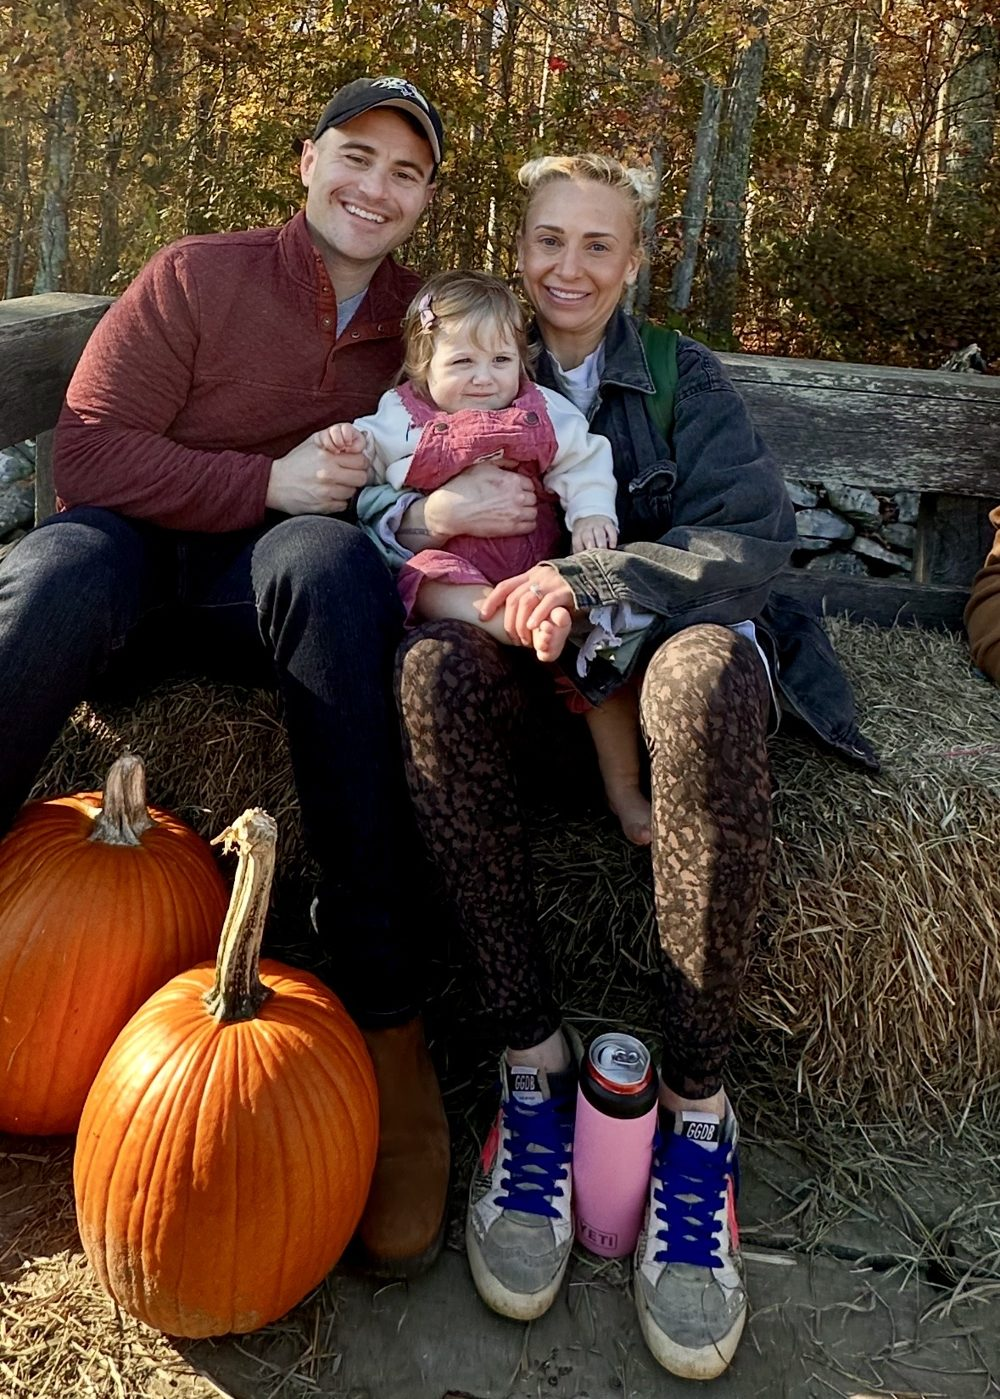
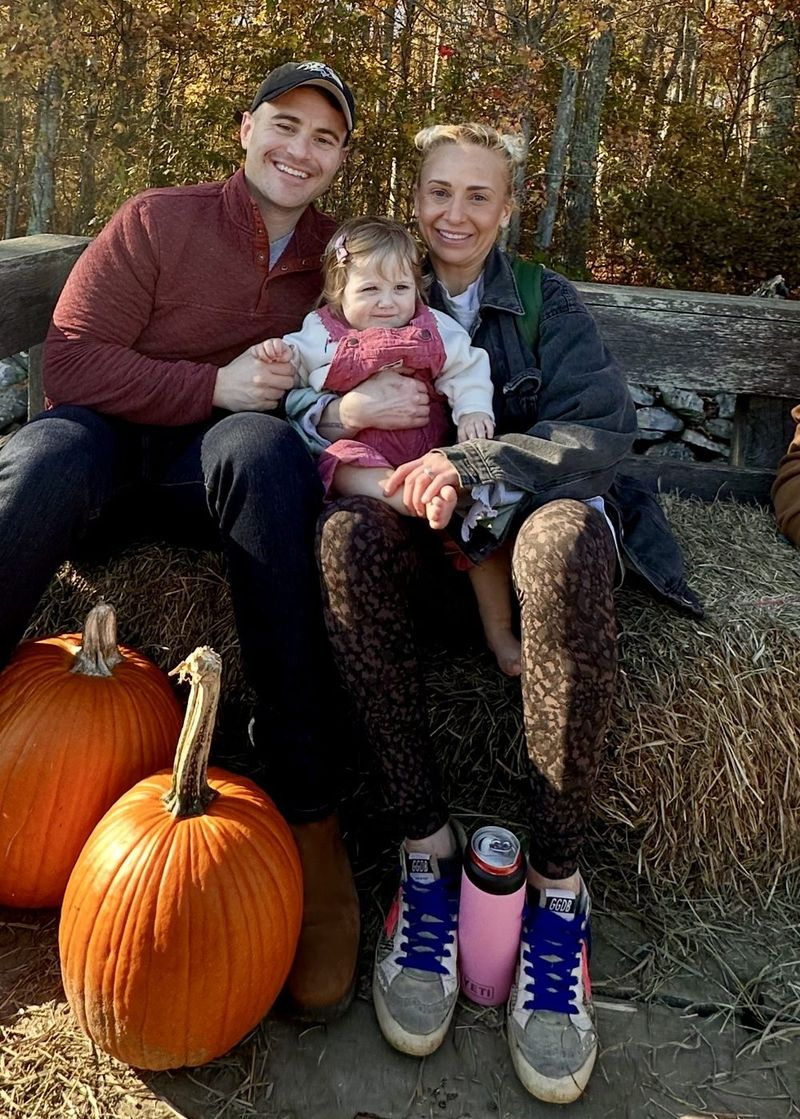
Polish pass: SEO files, a11y fixes, and lighter photos
Add robots.txt, sitemap.xml, and Person JSON-LD. Fix the brand
link's accessible name, size the HubSpot badge, and close the
mobile menu on Escape. Collapse the nav earlier on tablets,
keep footer links from wrapping mid-phrase, drop the unused
Bebas Neue font, and compress gallery photos for faster loads.

Changed region(s): [[0.5312, 0.0, 0.5625, 0.0304]]

diff --git a/index.html b/index.html
@@ -16,9 +16,18 @@
   <meta name="twitter:title" content="Alex Stengel | B2B Technology Sales" />
   <meta name="twitter:description" content="Ten years selling logistics, telecom, and IT. Louisville born, Rhode Island based, and learning to build with AI." />
   <link rel="icon" href="favicon.svg" type="image/svg+xml" />
+  <script type="application/ld+json">
+  {
+    "@context": "https://schema.org",
+    "@type": "Person",
+    "name": "Alex Stengel",
+    "url": "https://alex-stengel.com/",
+    "sameAs": ["https://www.linkedin.com/in/alex-stengel-66610282/"]
+  }
+  </script>
   <link rel="preconnect" href="https://fonts.googleapis.com" />
   <link rel="preconnect" href="https://fonts.gstatic.com" crossorigin />
-  <link href="https://fonts.googleapis.com/css2?family=Bebas+Neue&family=Inter:wght@400;500;600;700;800&display=swap" rel="stylesheet" />
+  <link href="https://fonts.googleapis.com/css2?family=Inter:wght@400;500;600;700;800&display=swap" rel="stylesheet" />
   <link rel="stylesheet" href="styles.css" />
 </head>
 <body>
@@ -26,8 +35,8 @@
 
   <header class="nav" id="top">
     <div class="wrap nav-inner">
-      <a href="#top" class="brand" aria-label="Alex Stengel, back to top"><span class="brand-mark">AS</span><span class="brand-name">Alex Stengel</span></a>
-      <button class="nav-toggle" aria-expanded="false" aria-controls="nav-links" aria-label="Open menu"><span></span><span></span><span></span></button>
+      <a href="#top" class="brand"><span class="brand-mark">AS</span><span class="brand-name">Alex Stengel</span></a>
+      <button type="button" class="nav-toggle" aria-expanded="false" aria-controls="nav-links" aria-label="Open menu"><span></span><span></span><span></span></button>
       <nav id="nav-links" class="nav-links">
         <a href="#about">About</a>
         <a href="#highlights">Highlights</a>
@@ -248,8 +257,8 @@
               <p>Earned through HubSpot Academy. Click the badge to verify it.</p>
               <!-- Begin: HubSpot Academy - HubSpot Sales Hub Software Certified Badge -->
               <div class='academy-badge'>
-                <a href='https://app.hubspot.com/academy/achievements/90ky4zvf/en/1/alex-stengel/hubspot-sales-hub-software-certified' title='HubSpot Sales Hub Software Certified' target='_blank' rel='noopener'>
-                  <img src='https://hubspot-credentials-na1.s3.amazonaws.com/prod/badges/user/3c517a679792426ba1d64bc53a2addfd.png' alt='HubSpot Sales Hub Software Certified badge' />
+                <a href="https://app.hubspot.com/academy/achievements/90ky4zvf/en/1/alex-stengel/hubspot-sales-hub-software-certified" title="HubSpot Sales Hub Software Certified" target="_blank" rel="noopener noreferrer" aria-label="HubSpot Sales Hub Software Certified badge (opens in a new tab)">
+                  <img src="https://hubspot-credentials-na1.s3.amazonaws.com/prod/badges/user/3c517a679792426ba1d64bc53a2addfd.png" alt="HubSpot Sales Hub Software Certified badge" width="666" height="355" loading="lazy" decoding="async" />
                 </a>
               </div>
               <!-- End: HubSpot Academy - HubSpot Sales Hub Software Certified Badge -->
@@ -324,39 +333,39 @@
         </div>
         <div class="gallery">
           <figure class="photo">
-            <img src="photos/pumpkin-patch.jpg" alt="Our little family on a hay bale at the pumpkin patch" width="1000" height="1399" loading="lazy" />
+            <img src="photos/pumpkin-patch.jpg" alt="Our little family on a hay bale at the pumpkin patch" width="800" height="1119" loading="lazy" decoding="async" />
             <figcaption><strong>Pumpkin patch season</strong><span>Fall in New England</span></figcaption>
           </figure>
           <figure class="photo">
-            <img src="photos/sun-hat.jpg" alt="Baby girl in a pink sun hat playing with toys on a blanket" width="1000" height="1333" loading="lazy" />
+            <img src="photos/sun-hat.jpg" alt="Baby girl in a pink sun hat playing with toys on a blanket" width="800" height="1066" loading="lazy" decoding="async" />
             <figcaption><strong>Summer vibes</strong><span>Sun hat, blocks, zero worries</span></figcaption>
           </figure>
           <figure class="photo">
-            <img src="photos/selfie.jpg" alt="Me in a red shirt taking a selfie with my daughter" width="1000" height="1333" loading="lazy" />
+            <img src="photos/selfie.jpg" alt="Me in a red shirt taking a selfie with my daughter" width="800" height="1066" loading="lazy" decoding="async" />
             <figcaption><strong>Daddy-daughter selfie</strong><span>My favorite co-pilot</span></figcaption>
           </figure>
           <figure class="photo">
-            <img src="photos/birthday-pup.jpg" alt="Our dog wearing a Happy Birthday party hat in the snow" width="1000" height="1374" loading="lazy" />
+            <img src="photos/birthday-pup.jpg" alt="Our dog wearing a Happy Birthday party hat in the snow" width="800" height="1099" loading="lazy" decoding="async" />
             <figcaption><strong>Birthday pup</strong><span>Party hat, serious face</span></figcaption>
           </figure>
           <figure class="photo">
-            <img src="photos/cake.jpg" alt="Our family around a pink cake in the kitchen" width="1000" height="1333" loading="lazy" />
+            <img src="photos/cake.jpg" alt="Our family around a pink cake in the kitchen" width="800" height="1066" loading="lazy" decoding="async" />
             <figcaption><strong>Cake time</strong><span>Louisville hat on, of course</span></figcaption>
           </figure>
           <figure class="photo">
-            <img src="photos/big-smiles.jpg" alt="Toddler in a mauve sweatshirt smiling outdoors" width="787" height="1400" loading="lazy" />
+            <img src="photos/big-smiles.jpg" alt="Toddler in a mauve sweatshirt smiling outdoors" width="787" height="1400" loading="lazy" decoding="async" />
             <figcaption><strong>Big smiles</strong><span>Her personality is something else</span></figcaption>
           </figure>
           <figure class="photo">
-            <img src="photos/party.jpg" alt="Little girl in a yellow romper looking at gifts and balloons at her party" width="981" height="1400" loading="lazy" />
+            <img src="photos/party.jpg" alt="Little girl in a yellow romper looking at gifts and balloons at her party" width="800" height="1142" loading="lazy" decoding="async" />
             <figcaption><strong>Party time</strong><span>Checking out the presents</span></figcaption>
           </figure>
           <figure class="photo">
-            <img src="photos/sunbather.jpg" alt="Our dog with eyes closed enjoying the sun in the grass" width="1000" height="1333" loading="lazy" />
+            <img src="photos/sunbather.jpg" alt="Our dog with eyes closed enjoying the sun in the grass" width="800" height="1066" loading="lazy" decoding="async" />
             <figcaption><strong>Sunbathing pro</strong><span>Peak relaxation</span></figcaption>
           </figure>
           <figure class="photo">
-            <img src="photos/mom-and-baby.jpg" alt="My wife smiling while holding our baby girl outside" width="933" height="1400" loading="lazy" />
+            <img src="photos/mom-and-baby.jpg" alt="My wife smiling while holding our baby girl outside" width="800" height="1200" loading="lazy" decoding="async" />
             <figcaption><strong>My girls</strong><span>The best part of every day</span></figcaption>
           </figure>
         </div>
@@ -374,7 +383,7 @@
             <span class="contact-icon" aria-hidden="true"><svg viewBox="0 0 24 24"><path d="M3 5h18v14H3z" fill="none" stroke="currentColor" stroke-width="2"/><path d="M3 6l9 7 9-7" fill="none" stroke="currentColor" stroke-width="2"/></svg></span>
             <span><small>Email</small>astengel51@gmail.com</span>
           </a>
-          <a class="contact-card" href="https://www.linkedin.com/in/alex-stengel-66610282/" target="_blank" rel="noopener" aria-label="LinkedIn: linkedin.com/in/alex-stengel (opens in a new tab)">
+          <a class="contact-card" href="https://www.linkedin.com/in/alex-stengel-66610282/" target="_blank" rel="noopener noreferrer" aria-label="LinkedIn: linkedin.com/in/alex-stengel (opens in a new tab)">
             <span class="contact-icon" aria-hidden="true"><svg viewBox="0 0 24 24"><path d="M4 9h4v11H4zM6 3.5a2.2 2.2 0 110 4.4 2.2 2.2 0 010-4.4zM10 9h3.8v1.6c.6-1 1.9-1.9 3.8-1.9 4 0 4.4 2.6 4.4 6V20h-4v-4.7c0-1.2 0-2.8-1.7-2.8s-2.1 1.3-2.1 2.7V20H10z" fill="currentColor"/></svg></span>
             <span><small>LinkedIn</small>linkedin.com/in/alex-stengel</span>
           </a>

diff --git a/styles.css b/styles.css
@@ -178,14 +178,6 @@ h2{font-family:var(--display);font-weight:400;font-size:clamp(48px,6vw,76px);lin
   .otc-grid{grid-template-columns:repeat(2,1fr)}
 }
 @media (max-width:760px){
-  .nav-toggle{display:flex}
-  .nav-links{position:absolute;top:64px;left:0;right:0;flex-direction:column;align-items:stretch;gap:0;background:var(--black);padding:8px 20px 18px;border-bottom:1px solid rgba(255,255,255,.1);display:none}
-  .nav-links.open{display:flex}
-  .nav-links a{padding:13px 0;border-bottom:1px solid rgba(255,255,255,.07);font-size:16px}
-  .nav-links .nav-cta{text-align:center;margin-top:12px;border-bottom:0}
-  .nav-toggle[aria-expanded="true"] span:nth-child(1){transform:translateY(7px) rotate(45deg)}
-  .nav-toggle[aria-expanded="true"] span:nth-child(2){opacity:0}
-  .nav-toggle[aria-expanded="true"] span:nth-child(3){transform:translateY(-7px) rotate(-45deg)}
   .hero{padding-top:56px}
   .hero-stripes::after{width:260px;right:-140px;opacity:.75}
   .hero-inner{padding-bottom:56px;gap:36px}
@@ -288,7 +280,6 @@ h2{font-size:clamp(34px,4.4vw,52px);line-height:1.05;margin-bottom:16px}
 .footer{background:#fff;color:var(--gray);border-top:1px solid var(--line)}
 .footer a{color:var(--red)}
 .nav-links{background:#fff}
-@media (max-width:860px){.nav-links{background:#fff;border-bottom:1px solid var(--line)}}
 
 /* PHOTO GALLERY */
 .gallery-head{margin-top:72px;margin-bottom:24px}
@@ -311,3 +302,24 @@ a:focus-visible,button:focus-visible{outline:3px solid var(--red);outline-offset
 .nav-links .nav-cta:focus-visible{outline-color:var(--ink)}
 .footer a{text-decoration:underline;text-underline-offset:3px}
 .brand-mark,.ticker-track,.route li.here .pin{color:#fff}
+
+/* Contact cards: keep long emails/URLs from overflowing on small screens */
+.contact-card span{min-width:0;overflow-wrap:anywhere}
+
+/* Keep footer links intact when the line wraps */
+.footer a{white-space:nowrap}
+@media (max-width:600px){
+  .footer-inner{flex-direction:column}
+}
+
+/* Collapse the nav before the six links get cramped on tablets */
+@media (max-width:900px){
+  .nav-toggle{display:flex}
+  .nav-links{position:absolute;top:64px;left:0;right:0;flex-direction:column;align-items:stretch;gap:0;background:#fff;padding:8px 20px 18px;border-bottom:1px solid var(--line);display:none}
+  .nav-links.open{display:flex}
+  .nav-links a{padding:13px 0;border-bottom:1px solid var(--line);font-size:16px}
+  .nav-links .nav-cta{text-align:center;margin-top:12px;border-bottom:0}
+  .nav-toggle[aria-expanded="true"] span:nth-child(1){transform:translateY(7px) rotate(45deg)}
+  .nav-toggle[aria-expanded="true"] span:nth-child(2){opacity:0}
+  .nav-toggle[aria-expanded="true"] span:nth-child(3){transform:translateY(-7px) rotate(-45deg)}
+}

diff --git a/script.js b/script.js
@@ -1,14 +1,16 @@
 // Mobile nav
 const toggle=document.querySelector('.nav-toggle');
 const links=document.getElementById('nav-links');
-toggle.addEventListener('click',()=>{
-  const open=links.classList.toggle('open');
+const setMenu=open=>{
+  links.classList.toggle('open',open);
   toggle.setAttribute('aria-expanded',open);
   toggle.setAttribute('aria-label',open?'Close menu':'Open menu');
+};
+toggle.addEventListener('click',()=>setMenu(!links.classList.contains('open')));
+links.querySelectorAll('a').forEach(a=>a.addEventListener('click',()=>setMenu(false)));
+document.addEventListener('keydown',e=>{
+  if(e.key==='Escape'&&links.classList.contains('open')){setMenu(false);toggle.focus();}
 });
-links.querySelectorAll('a').forEach(a=>a.addEventListener('click',()=>{
-  links.classList.remove('open');toggle.setAttribute('aria-expanded','false');
-}));
 
 // Footer year
 document.getElementById('year').textContent=new Date().getFullYear();
